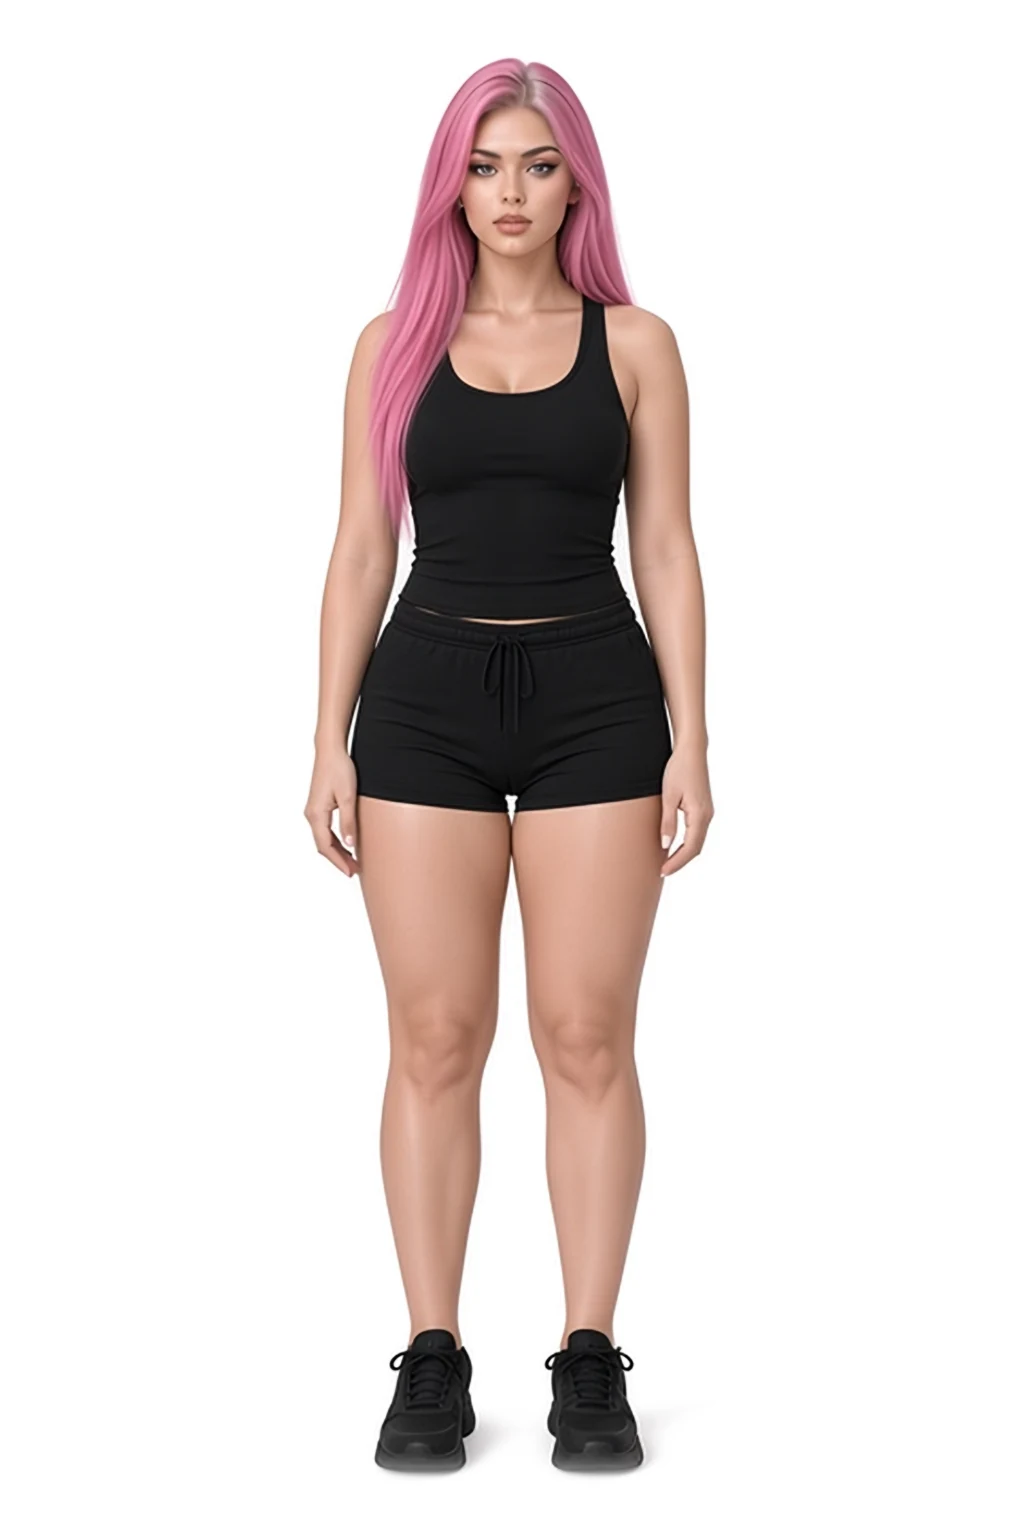
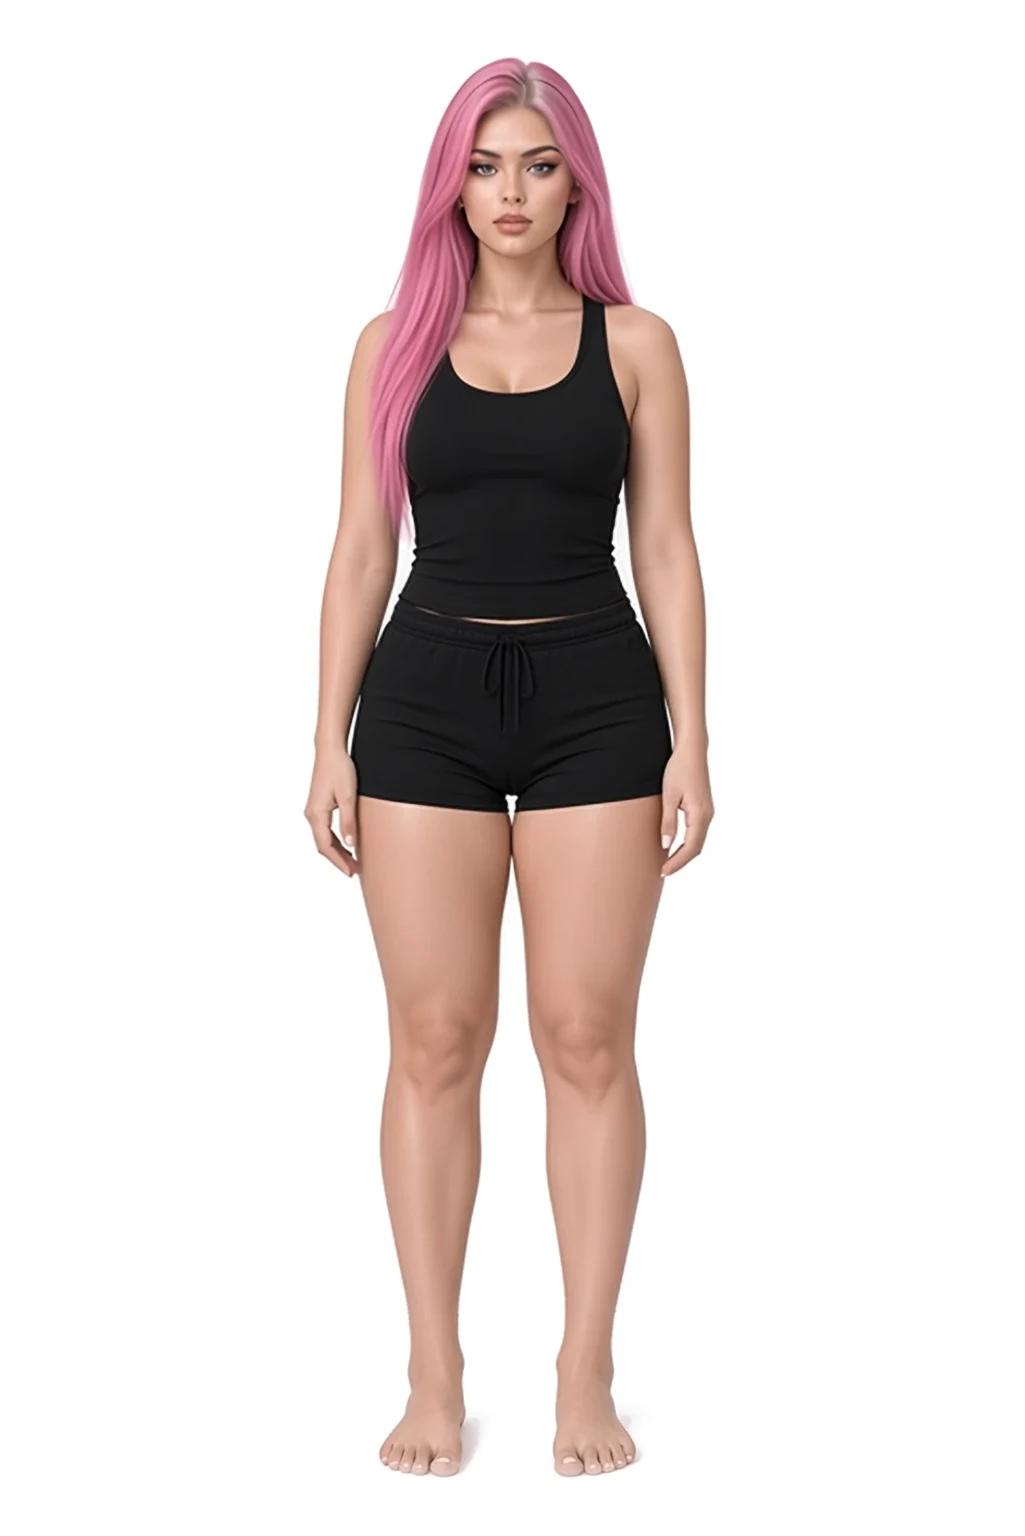
Model 3 (exact-6) barefoot in every outfit: rebuilt Slip dress / Tank & shorts / USA jersey images; assetRev 48394159d4cb (installs refresh in place, edits kept)

Changed region(s): [[0.3434, 0.8438, 0.4995, 0.9688], [0.5307, 0.8438, 0.6556, 0.9688]]

diff --git a/js/starters.js b/js/starters.js
@@ -44,10 +44,11 @@ export const STARTERS = [
   },
   {
     // Models 6-16 added 2026-10-18 (8, 11, 15, 16 since removed) from Jordan's 6-view sheets (same pipeline as Model 1); existing installs gain them once
-    id: 'starter-exact-6', name: 'Model 3', file: 'exact-6', assetRev: '40a08b9f6a2a', heightCm: 160, bodyType: 'curvy', size: '12–14 / L',
+    id: 'starter-exact-6', name: 'Model 3', file: 'exact-6', assetRev: '48394159d4cb', heightCm: 160, bodyType: 'curvy', size: '12–14 / L',
     measurements: { bust: 40, waist: 31, hips: 44, inseam: 28 }, measureUnit: 'in', measurementsEstimated: true,
     note: 'Long straight pink hair, fair skin',
     // 2026-10-19 (Jordan): Generated 2's Yoga set, generated on her own sheet; existing installs gain it in place (assetRev covers both)
+    // 2026-10-22 (Jordan): barefoot in every outfit; Slip dress, Tank & shorts and USA jersey got her own Base feet composited (assetRev bumped)
     outfits: [
       { id: 'base', name: 'Base', subtitle: 'Grey crop set', file: 'exact-6' },
       { id: 'yoga-set', name: 'Yoga set', subtitle: 'Rose yoga set', file: 'exact-6-yoga-set' },

diff --git a/js/app.js b/js/app.js
@@ -10,7 +10,7 @@ import { renderSpin } from './spin-view.js';
 import { initUpdates } from './update.js';
 
 // VERSION is stamped automatically by the pre-commit hook (.githooks/pre-commit). Do not edit by hand.
-export const VERSION = '2026.10.22-060324-a33e04b';
+export const VERSION = '2026.10.22-063152-40717a2';
 
 const TITLES = { looks: 'Lookbook', 'import-looks': 'Import mockups', styles: 'Catalog', style: 'Style', 'style-edit': 'Style', models: 'Model Library', model: 'Model', 'import-model': 'Import model', studio: 'Prompt builder', spin: '360 spin', settings: 'Settings' };
 const TAB_OF = { looks: 'looks', 'import-looks': 'looks', styles: 'styles', style: 'styles', 'style-edit': 'styles', models: 'models', model: 'models', 'import-model': 'models', studio: 'models', spin: 'spin', settings: 'settings' };

diff --git a/sw.js b/sw.js
@@ -3,7 +3,7 @@
 // offline fallback) so a new deploy is never served stale; big images/fonts are cache-first. Cross-origin requests
 // (only the optional BYOK APIs) are never touched. skipWaiting + clients.claim, so a new version takes over at once;
 // js/update.js then reloads the page when it's safe.
-const VERSION = '2026.10.22-060324-a33e04b';
+const VERSION = '2026.10.22-063152-40717a2';
 const CACHE = `avata-${VERSION}`;
 const SHELL = [
   './', 'index.html', 'styles.css', 'manifest.webmanifest',

diff --git a/README.md b/README.md
@@ -122,3 +122,5 @@ Starter re-sync e2e: `python3 tools/e2e_starters.py` (installs the previous rele
 **Removed Model 5 (exact-21), later 2026-10-22:** `starter-exact-21` (Base, Beige Linen, A) added to `REMOVED_STARTER_IDS` (flag `removed-starters-2026-10-22b`; files archived in the gallery's work/removed-models); exact-26 relabelled Model 6 -> Model 5 (`RELABEL` under `relabel-2026-10-22b`, user names kept). Lineup Model 1-5 = exact-6, 12, 13, 14, 26.
 
 **Reordered Model 1-5 (2026-10-22, Jordan: old 2, 5, 1, 4, 3):** `STARTERS` order and default names are now Model 1 = exact-12, 2 = exact-26, 3 = exact-6, 4 = exact-14, 5 = exact-13. The Models tab and the 360 row follow that order (`orderedModels` / gallery manifest order); `relabelStarters()` renames default-named records once (`relabel-2026-10-22c`; `oldName` lists every earlier default, never the new name; user names kept). Removed gallery ids fall back to the new Model 1 (exact-12).
+
+**Model 3 barefoot (2026-10-22, Jordan):** `starter-exact-6` (Model 3) is barefoot in every outfit. Slip dress (lace-up sandals), Tank & shorts (sneakers) and USA jersey (socks + sneakers) got her own Base lower legs and feet from the same angle composited in (per-leg aligned, skin-tone matched, edge-matched blend above the footwear; no generation); front/back/thumb/sheet rebuilt from those frames. assetRev 40a08b9f6a2a -> 48394159d4cb, so installs refresh her in place (names and edits kept).
